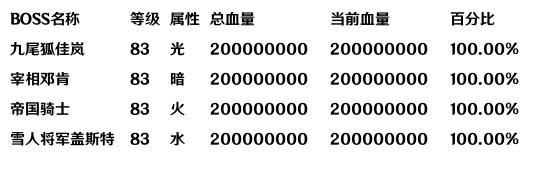
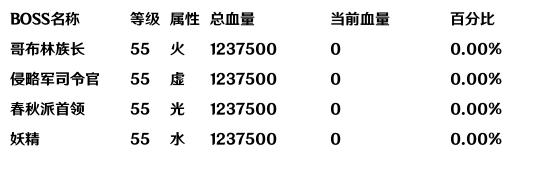
还原以前的版本，顺便说一句：傻逼猫燐

diff --git a/payload/dao.py b/payload/dao.py
@@ -2,7 +2,7 @@
 Author: 七画一只妖 1157529280@qq.com
 Date: 2023-03-27 10:45:06
 LastEditors: 七画一只妖 1157529280@qq.com
-LastEditTime: 2023-04-14 22:58:51
+LastEditTime: 2023-04-21 17:13:54
 '''
 from PIL import Image, ImageDraw, ImageFont
 from pathlib import Path
@@ -26,11 +26,11 @@ async def get_data(date: str = None):
     返回:图片路径
     """
 
-    if date is None:
-        now = datetime.datetime.now().strftime("%Y-%m-%d")
-        now_time = datetime.datetime.strptime(now, "%Y-%m-%d").date()
-        latest_time = datetime.datetime.strptime(FIGHT_LIST[-1], "%Y-%m-%d").date()
-        date = now if latest_time > now_time else latest_time
+    # if date is None:
+    #     now = datetime.datetime.now().strftime("%Y-%m-%d")
+    #     now_time = datetime.datetime.strptime(now, "%Y-%m-%d").date()
+    #     latest_time = datetime.datetime.strptime(FIGHT_LIST[-1], "%Y-%m-%d").date()
+    #     date = now if latest_time > now_time else latest_time
 
 
     d_data: dict = await f_get_damage_data(date)

diff --git a/payload/function.py b/payload/function.py
@@ -2,7 +2,7 @@
 Author: 七画一只妖 1157529280@qq.com
 Date: 2023-03-27 09:05:56
 LastEditors: 七画一只妖 1157529280@qq.com
-LastEditTime: 2023-04-14 23:08:59
+LastEditTime: 2023-04-21 17:13:46
 FilePath: \060坎公骑冠剑会战工具\function.py
 Description: 这是默认设置,请设置`customMade`, 打开koroFileHeader查看配置 进行设置: https://github.com/OBKoro1/koro1FileHeader/wiki/%E9%85%8D%E7%BD%AE
 '''
@@ -35,7 +35,10 @@ async def f_get_user_data(date:str) -> dict:
 async def f_get_damage_data(date:str):
     try:
         async with httpx.AsyncClient(timeout=None) as client:
-            r = await client.get(url=DAMAGE_URL + date, headers=header)
+            if date:
+                r = await client.get(url=DAMAGE_URL + date, headers=header)
+            else:
+                r = await client.get(url=DAMAGE_URL, headers=header)
             re_data: dict = r.json()
             save_data(f"{BASE_PATH}\\data\\damage_data.json", re_data)
             data = re_data["data"]

diff --git a/main.py b/main.py
@@ -2,7 +2,7 @@
 Author: 七画一只妖 1157529280@qq.com
 Date: 2023-03-27 09:01:10
 LastEditors: 七画一只妖 1157529280@qq.com
-LastEditTime: 2023-04-14 23:09:28
+LastEditTime: 2023-04-21 17:14:12
 FilePath: \060坎公骑冠剑会战工具\main.py
 Description: 这是默认设置,请设置`customMade`, 打开koroFileHeader查看配置 进行设置: https://github.com/OBKoro1/koro1FileHeader/wiki/%E9%85%8D%E7%BD%AE
 '''
@@ -24,10 +24,10 @@ loop = asyncio.get_event_loop()
 # print(loop.run_until_complete(dao.get_rate()))
 
 # 获取出刀总数统计表的图片
-print(loop.run_until_complete(dao.get_dao_total_image()))
+# print(loop.run_until_complete(dao.get_dao_total_image()))
 
 # 总共
-print(loop.run_until_complete(dao.get_dao_daily_image()))
+# print(loop.run_until_complete(dao.get_dao_daily_image()))
 
 # 总榜
-print(loop.run_until_complete(dao.get_dao_damage_total_image()))
+# print(loop.run_until_complete(dao.get_dao_damage_total_image()))

diff --git a/payload/utils/data_utils.py b/payload/utils/data_utils.py
@@ -2,7 +2,7 @@
 Author: 七画一只妖 1157529280@qq.com
 Date: 2023-03-27 09:55:54
 LastEditors: 七画一只妖 1157529280@qq.com
-LastEditTime: 2023-04-04 10:47:32
+LastEditTime: 2023-04-21 17:12:49
 '''
 import json
 
@@ -38,5 +38,9 @@ def _data_format(name):
         "宰相邓肯":"邓肯",
         "帝国骑士":"骑士",
         "雪人将军盖斯特":"雪人",
+        "妖精":"妖精",
+        "春秋派首领":"春秋",
+        "哥布林族长":"族长",
+        "侵略军司令官":"司令"
     }
     return data[name]
